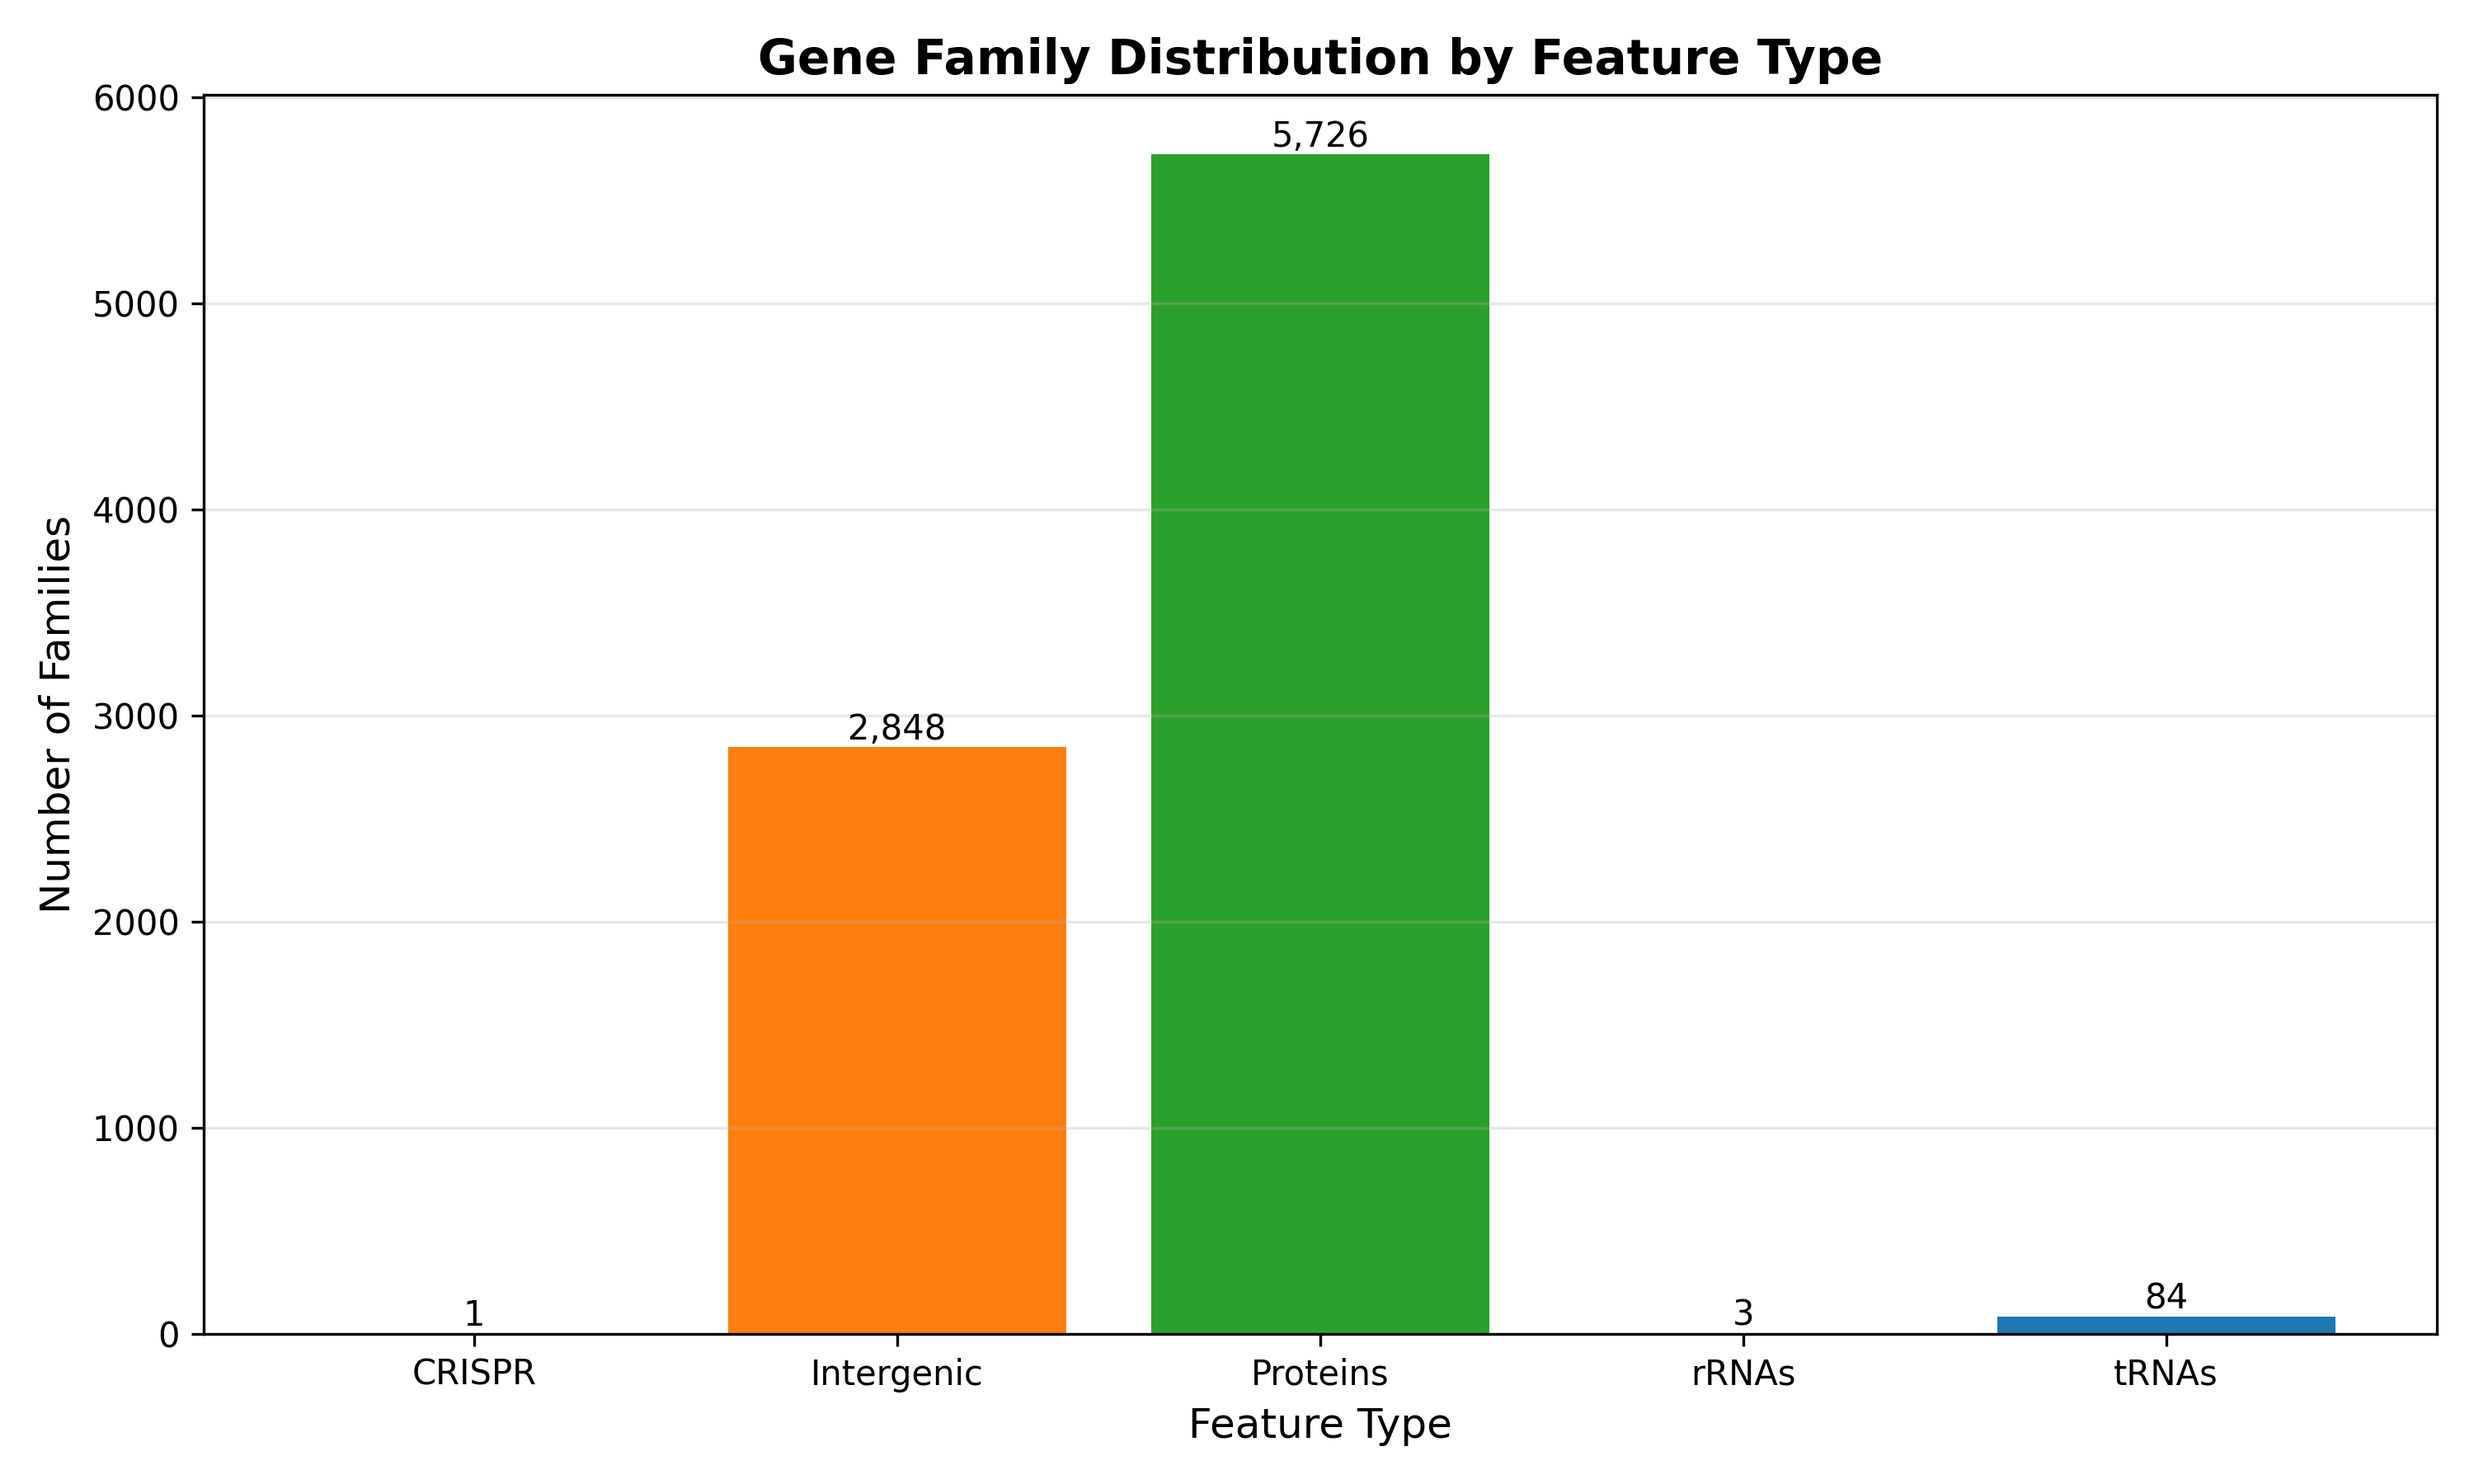
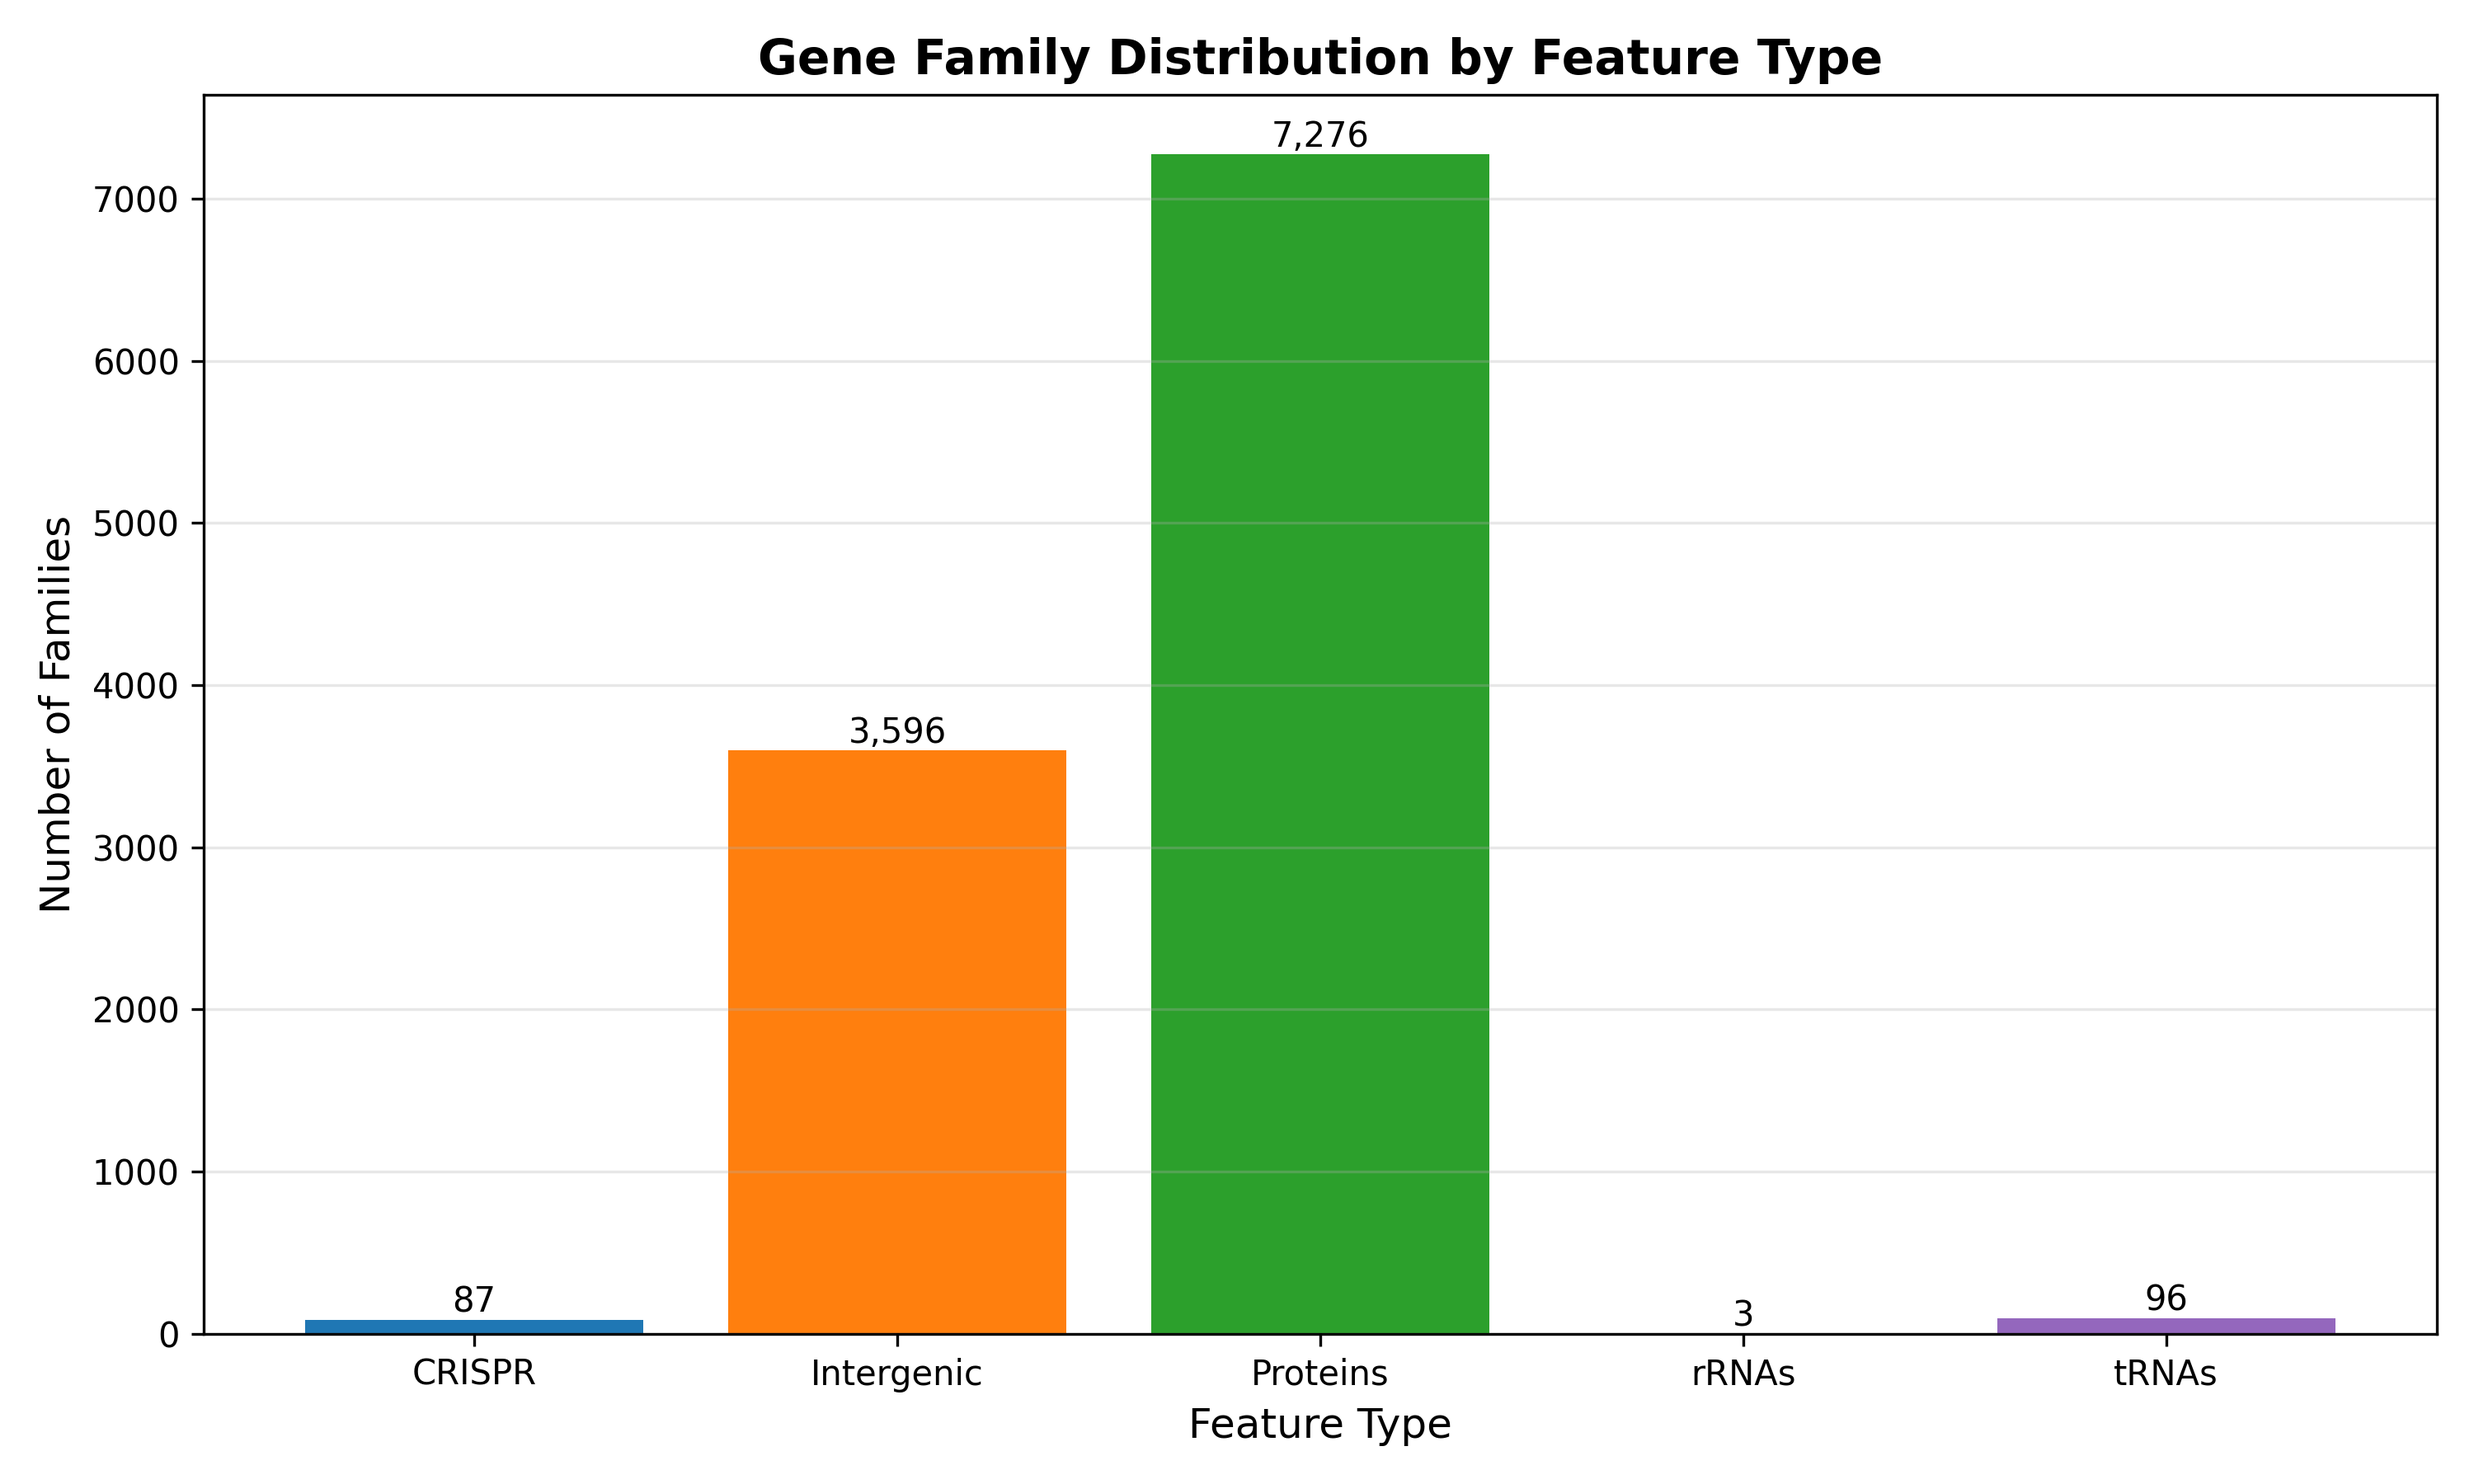
Fix singleton classification - include singletons in pangenome counts
Singletons (families with 1 member) are now correctly classified as
core/accessory/cloud based on genome frequency, rather than being
excluded from family counts. This provides biologically accurate
pangenome statistics.

Changes:
- Remove special-case singleton handling in classify_families()
- Simplify classification logic from 4-branch to 3-branch conditional
- Update README images with corrected visualizations including all families
- Include all genomic content in family counts (e.g., 11,058 vs 9,508 families)

Technical details:
- clustering.py: Removed singleton check, unified classification by genome_fraction
- pangenome_analysis.py: Removed 'singleton' from total_families dict
- Follows KISS principle: simpler code, more accurate biology

diff --git a/pangenomeplus/clustering.py b/pangenomeplus/clustering.py
@@ -422,10 +422,9 @@ def classify_families(
         genome_count = len(genomes_with_family)
         genome_fraction = genome_count / total_genomes if total_genomes > 0 else 0
 
-        # Determine classification
-        if family_id.startswith("SING_"):
-            classification = "singleton"
-        elif genome_fraction >= core_threshold:
+        # Determine classification based on genome frequency
+        # Singletons are included - they're cloud families (present in 1 genome)
+        if genome_fraction >= core_threshold:
             classification = "core"
         elif genome_fraction >= cloud_threshold:
             classification = "accessory"

diff --git a/pangenomeplus/pangenome_analysis.py b/pangenomeplus/pangenome_analysis.py
@@ -681,7 +681,8 @@ def generate_comprehensive_markdown_report(
         run_metadata = {}
 
     # Calculate summary statistics
-    total_families = {"core": 0, "accessory": 0, "cloud": 0, "singleton": 0}
+    # Singletons are now included in cloud classification
+    total_families = {"core": 0, "accessory": 0, "cloud": 0}
     for feature_type, stats_dict in family_stats.items():
         for family_id, stats in stats_dict.items():
             classification = stats.classification
